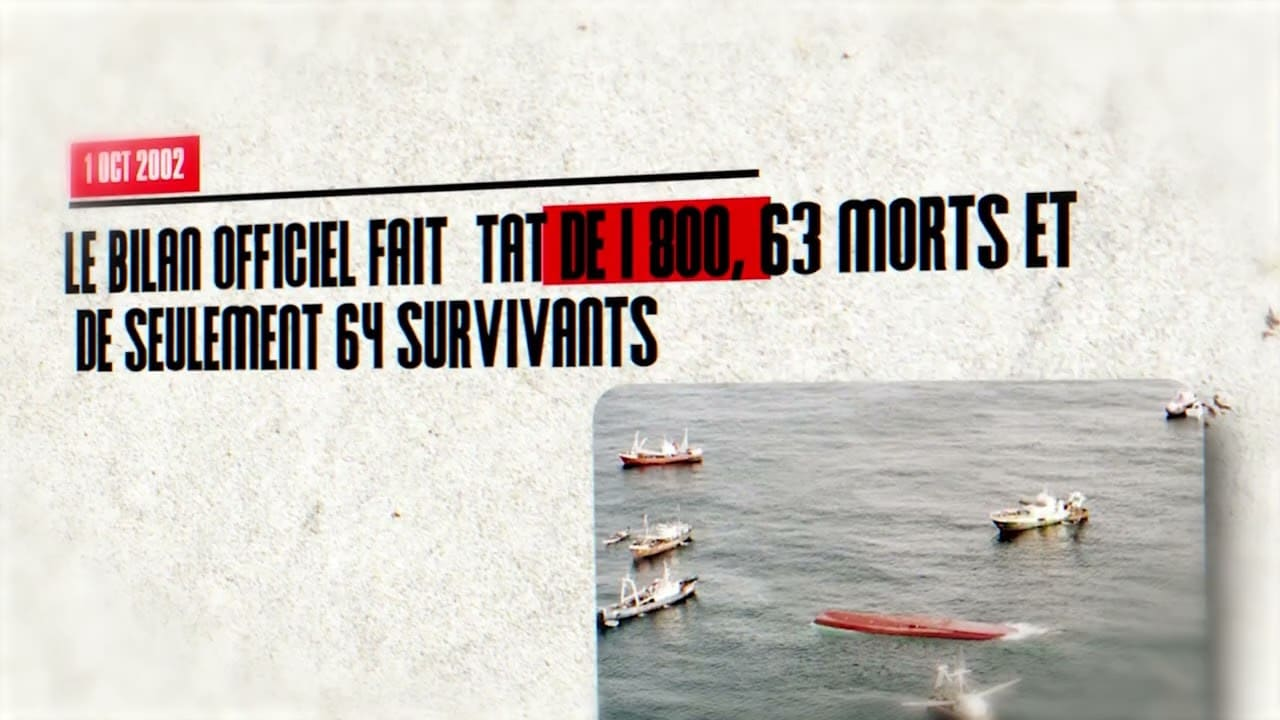
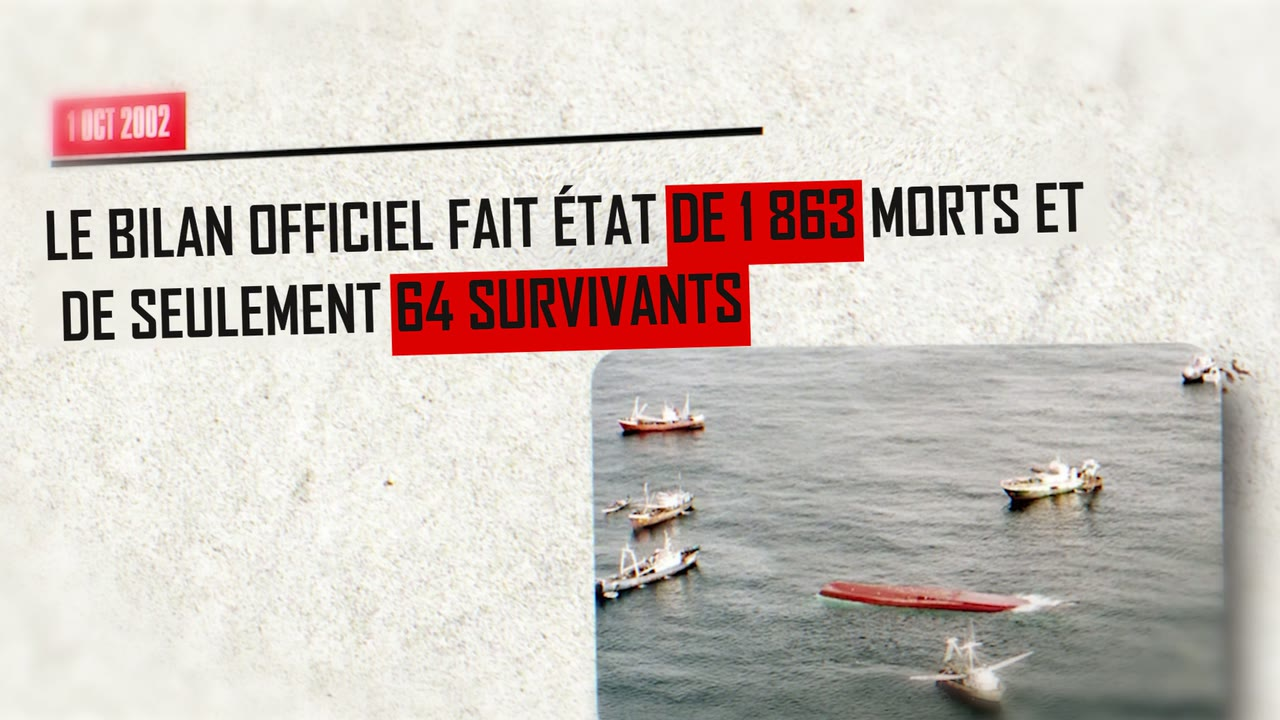
Retrait de Tuyo et vignette du Joola corrigée
- Tuyo retiré : cartes de l'accueil et des réalisations, page projet-2 et son image.
- Pagination : Le Joola mène maintenant directement à Pineapple.
- Vignette du Joola remplacée par la carte corrigée (« fait état de 1 863 morts »).
- Script d'envoi : projet-2.html et les images de Tuyo seront effacés du serveur.

diff --git a/index.html b/index.html
@@ -105,17 +105,6 @@
                     </a>
                 </article>
                 <article class="feature-card reveal">
-                    <a href="./projet-2.html" class="feature-card-link">
-                        <div class="media-frame">
-                            <img src="./assets/images/tuyo/thumbnail.gif" alt="Image tirée du montage Tuyo" loading="lazy" decoding="async">
-                        </div>
-                        <div class="feature-card-info">
-                            <h3 class="feature-card-title">Tuyo</h3>
-                            <p class="feature-card-desc">Exercice de montage d'une minute : recomposer des séquences de trois films différents en une seule histoire rythmée.</p>
-                        </div>
-                    </a>
-                </article>
-                <article class="feature-card reveal">
                     <a href="./projet-11.html" class="feature-card-link">
                         <div class="media-frame">
                             <img src="./assets/images/pineapple/route.jpg" alt="Illustration du voyage de Pineapple : un camion de livraison sur la route" loading="lazy" decoding="async">

diff --git a/realisations.html b/realisations.html
@@ -76,19 +76,6 @@
                     </a>
                 </article>
 
-                <article class="feature-card" data-categories="video">
-                    <a href="./projet-2.html" class="feature-card-link">
-                        <div class="media-frame">
-                            <img src="./assets/images/tuyo/thumbnail.gif" alt="Image tirée du montage Tuyo" loading="lazy" decoding="async">
-                        </div>
-                        <div class="feature-card-overlay"></div>
-                        <div class="feature-card-info">
-                            <h2 class="feature-card-title">Tuyo</h2>
-                            <p class="feature-card-desc">Exercice de montage d'une minute : recomposer des séquences de trois films différents en une seule histoire rythmée.</p>
-                        </div>
-                    </a>
-                </article>
-
                 <article class="feature-card" data-categories="ux-ui">
                     <a href="./projet-3.html" class="feature-card-link">
                         <div class="media-frame">

diff --git a/projet-3.html b/projet-3.html
@@ -119,7 +119,7 @@
             </div>
 
             <nav class="project-pagination" aria-label="Navigation entre projets">
-                <a href="./projet-2.html" class="pagination-link pagination-link--prev"><span class="nav-arrow nav-arrow--left" aria-hidden="true"></span><span>Projet précédent</span></a>
+                <a href="./projet-1.html" class="pagination-link pagination-link--prev"><span class="nav-arrow nav-arrow--left" aria-hidden="true"></span><span>Projet précédent</span></a>
                 <a href="./projet-4.html" class="pagination-link pagination-link--next"><span>Projet suivant</span><span class="nav-arrow nav-arrow--right" aria-hidden="true"></span></a>
             </nav>
         </section>

diff --git a/projet-1.html b/projet-1.html
@@ -93,7 +93,7 @@
 
             <nav class="project-pagination" aria-label="Navigation entre projets">
                 <span></span>
-                <a href="./projet-2.html" class="pagination-link pagination-link--next"><span>Projet suivant</span><span class="nav-arrow nav-arrow--right" aria-hidden="true"></span></a>
+                <a href="./projet-3.html" class="pagination-link pagination-link--next"><span>Projet suivant</span><span class="nav-arrow nav-arrow--right" aria-hidden="true"></span></a>
             </nav>
         </section>
     </main>

diff --git a/outils/envoyer_portfolio.py b/outils/envoyer_portfolio.py
@@ -17,7 +17,7 @@ DOSSIER_DISTANT = "/portfolio"
 RACINE = os.path.dirname(os.path.dirname(os.path.abspath(__file__)))
 ETAT = os.path.join(os.path.dirname(os.path.abspath(__file__)), ".dernier_envoi.json")
 # Anciens contenus retirés du site : à effacer aussi sur le serveur.
-RETIRES = ["projet-9.html", "assets/images/medteck", "assets/images/derniers-messages", "assets/videos/teaser-jack-carter.mp4"]
+RETIRES = ["projet-9.html", "assets/images/medteck", "assets/images/derniers-messages", "assets/videos/teaser-jack-carter.mp4", "projet-2.html", "assets/images/tuyo"]
 EXCLUS = {".git", ".github", ".claude", "outils", "node_modules", "README.md", ".gitignore", ".gitattributes"}
 
 
